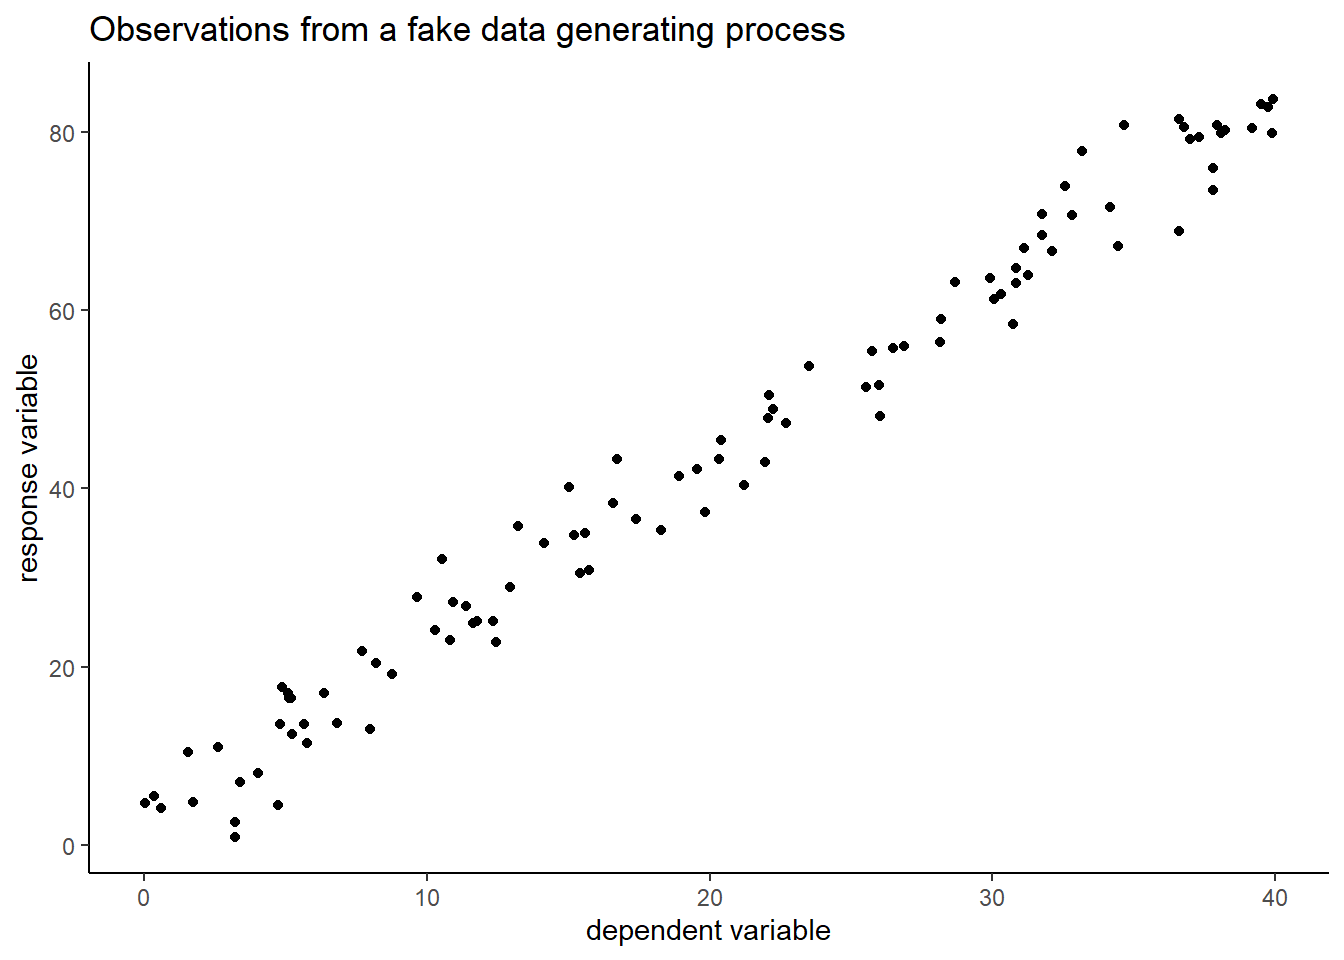
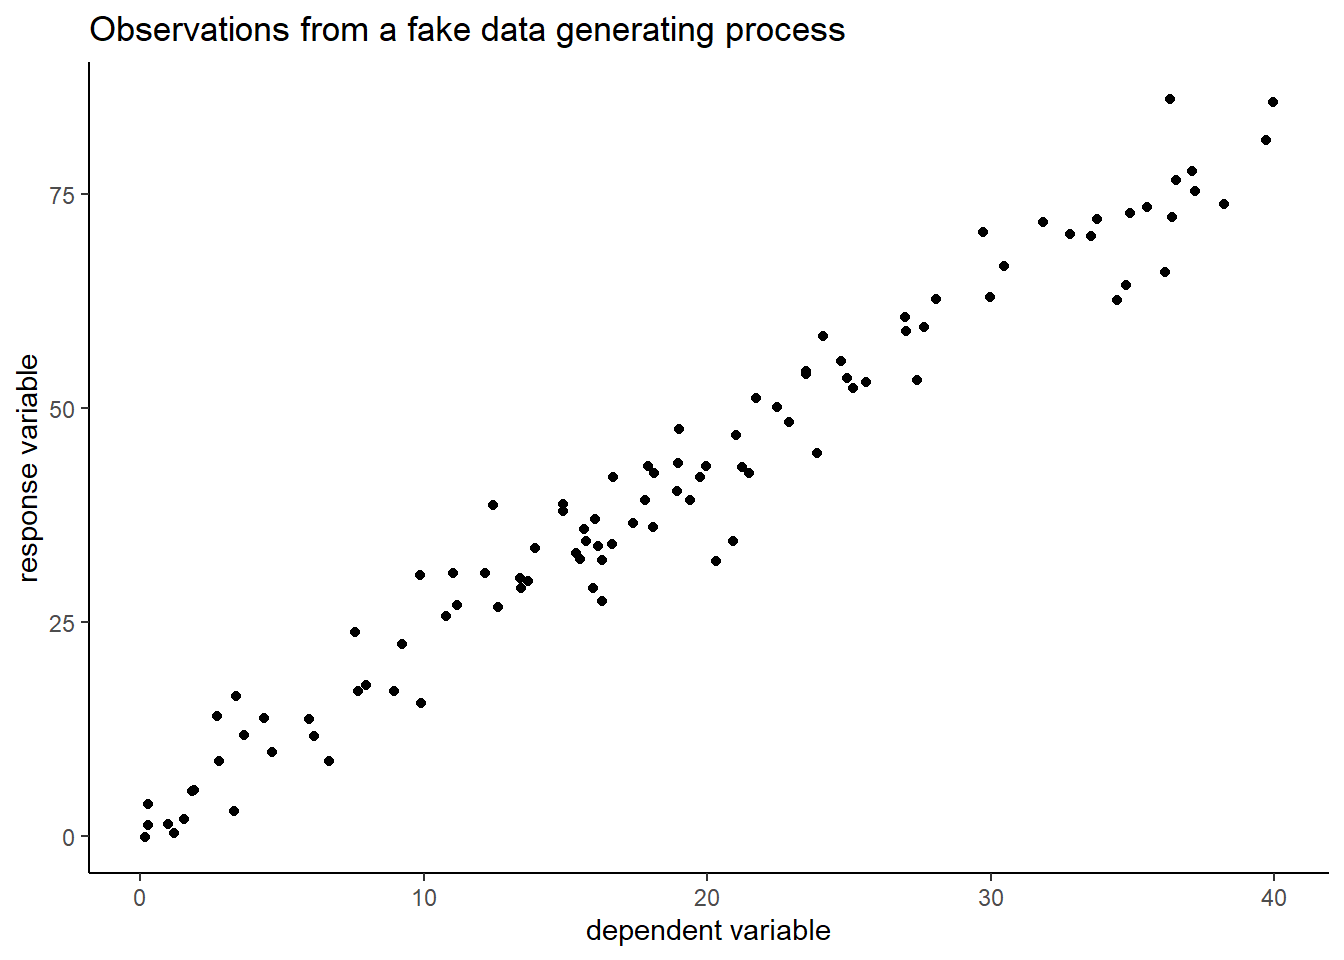
Fundamentals 1 correction def of likelihood and indep var

diff --git a/content/post/2021-04-11-nuts-and-bolts-1-ml-and-ols/index.en.html b/content/post/2021-04-11-nuts-and-bolts-1-ml-and-ols/index.en.html
@@ -23,8 +23,8 @@ projects: []
 <div id="theories-of-inference" class="section level2">
 <h2>Theories of Inference</h2>
 <p>The fundamental puzzle of inference is to say something about an unknown process that generates data, when all you have in your hand are a few of its crumbs. Of course, if you truly understood every aspect of a process, you wouldn’t need to do inference. But especially in the social sciences, this is never the case. So the problem of inference is to put probabilities on outcomes of a process that you do not understand. Although second best, it still gives some grip on reality.</p>
-<p>It is hard to make progress with this puzzle unless we make an assumption. To make our life easier, we assume that data are generated on the basis of a parametric probability distribution. Think of the Normal, Bernoulli or Poisson distributions. The benefit of these things is that you don’t have to estimate the probability for every possible value of the data. One or two parameters describe the entire probability distribution! Think of the mean and variance for the Gaussian, lambda for the Poisson and p for the Bernoulli. When you are willing to make this assumption, you are doing parametric statistics.</p>
-<p>Instead of figuring out probabilities for the values of the process directly then, we estimate one or more parameters that we will call ‘theta’ (<span class="math inline">\(\theta\)</span>) (theta can be a vector) that control a distribution that indirectly gives us the probabilities for values of the process. SO the problem is now transformed from estimating maybe thousands of values into estimating only one or more parameters, based on data and your assumption about a model (say, a linear model with a Gaussian distribution).</p>
+<p>It is hard to make progress with this puzzle unless we make some assumptions. You can do without these assumptions, but that is a topic for another time. To make our life easier, we first assume that the data were independently drawn from a population. Second, we assume that data are generated on the basis of a parametric probability distribution. Think of the Normal, Bernoulli or Poisson distributions. The benefit of these things is that you don’t have to estimate the probability for every possible value of the data. One or two parameters describe the entire probability distribution! Think of the mean and variance for the Gaussian, lambda for the Poisson and p for the Bernoulli. When you are willing to make this assumption, you are doing parametric statistics.</p>
+<p>Instead of figuring out probabilities for the values of the process directly then, we estimate one or more parameters that we will call ‘theta’ (<span class="math inline">\(\theta\)</span>) (theta can be a vector) that control a distribution that indirectly gives us the probabilities for values of the process. So the problem is now transformed from estimating maybe thousands of values into estimating only one or more parameters, based on data and your assumption about a model (say, a linear model with a Gaussian distribution).</p>
 <p>We stress the last point here. In inference, the claims about our estimate and its uncertainty are conditional also on the model we picked. Often, we could have chosen a different model just as well. This so called ‘model dependence’ has become a more prominent topic of study in recent years. See for example <a href="https://journals.sagepub.com/doi/10.1177/1745691616658637">this article</a> for a case study.</p>
 <p>Carrying on, we can now translate the problem of inference into a formula with the help of Bayes’ Rule. Instead of probabilities for events, which typically figure in Bayes’ Rule, we now place probability distributions in the formula. These can be either discrete or continuous. We will not bother with this distinction here.</p>
 <p><span class="math display">\[p(\theta|data)=\frac{p(\theta)p(data|\theta)}{p(data)}\]</span>
@@ -49,17 +49,17 @@ Although the math is easier in likelihood, the concept is less intuitive than th
 <h2>Maximum Likelihood</h2>
 <p>We begin with a maximum likelihood calculation for a simple linear model. There are two components to this model. First, there is the systematic part, which predicts the value of the average <span class="math inline">\(\mu\)</span> for some covariate. Second, we assume that there is noise around this estimate due to fundamental uncertainty in nature. This is the stochastic part of the model. Here we assume that the noise is normally distributed.</p>
 <p>We now run through the calculation of the ML, plugging in <span class="math inline">\(\beta\)</span> at the very end in order to get used to the idea of reparameterization. This <span class="math inline">\(\beta\)</span> could be a vector of covariates that predict the value we are interested in. Here however, to keep things simple, it is just a scalar that holds the value of <span class="math inline">\(\mu\)</span>.</p>
-<p>Finding the maximum likelihood means maximizing the probability (or density) of values of the parameters given the data. We do this for each data point and multiply the values together (we can do this because we assume independence; we can still do likelihood inference without this assumption, but in that case things get a whole lot more complicated).</p>
+<p>Finding the maximum likelihood means maximizing the probability (or density) of the data, given a parameter. In other words, we run through candidate parameters, and pick the ones that make the data the most likely. So for some candidate mean and standard deviation we set up a normal distribution and calculate the probability (technically the density) of this data point. We do this for all data points and multiply the densities together (we can do this because we assume independence; we can still do likelihood inference without this assumption, but in that case things get a whole lot more complicated).</p>
 <p><span class="math display">\[\mathcal{L} (\mu_i,\sigma_{i}|y) = \prod_{i=1}^n f(y_{i}|\mu_i,\sigma_{i}) \]</span>
-We are looking then for the <span class="math inline">\(\mu\)</span> and <span class="math inline">\(\sigma\)</span> that make the data the most likely.</p>
-<p>Next, we take the log of both sides, because it allows us to write the product as a sum. This makes it easier to differentiate later.</p>
+The outcome of this calculation is some crazy number that is very small and doesn’t have any intuitive meaning. It virtue is that it helps us find the <span class="math inline">\(\mu\)</span> and <span class="math inline">\(\sigma\)</span> that make the data the most likely.</p>
+<p>Next, we take the log of both sides, because it allows us to write the product as a sum. This makes it easier to differentiate later. Also, the crazy small number becomes a negative number that is large in absolute value and easier on the eye.</p>
 <p><span class="math display">\[ln(\mathcal{L}(\mu_i,\sigma_{i}|y))=\sum_{i=1}^{n}ln(f(y_{i}|\mu_i,\sigma_{i})) \]</span>
 Filling in the formula for the normal distribution reveals what model we were assuming all along.</p>
 <p><span class="math display">\[ln(\mathcal{L} (\mu_i,\sigma_{i}|y))=\sum_{i=1}^{n}ln(\frac{1}{\sqrt{2\pi}\sigma}e^{-\frac{(y_{i}-\mu_{i})^2}{2\sigma^2}}) \]</span>
-Taking the natural log of e simplifies things considerably. Since we want to get at the maximum likelihood estimate for the mean, we drop terms that do not depend on <span class="math inline">\(\mu\)</span>.</p>
-<p><span class="math display">\[ln(\mathcal{L}(\mu_i,\sigma_{i}|y))\approx \sum_{i=1}^{n}{-\frac{(y_{i}-\mu_{i})^2}{2\sigma^2}}\]</span>
+Taking the natural log of e will simplify things considerably. Since we want to get at the maximum likelihood estimate for the mean, we also drop terms that do not depend on <span class="math inline">\(\mu\)</span>.</p>
+<p><span class="math display">\[ln(\mathcal{L}(\mu_i|y,\sigma_{i}))\approx \sum_{i=1}^{n}{-\frac{(y_{i}-\mu_{i})^2}{2\sigma^2}}\]</span>
 Substituting the scalar <span class="math inline">\(\beta\)</span> for <span class="math inline">\(\mu\)</span> (another name for the same thing now, later we will put more stuff in <span class="math inline">\(\beta\)</span>) and taking the partial derivative of this expression with respect to <span class="math inline">\(\beta\)</span> shows that the mean is the best estimate for <span class="math inline">\(\beta\)</span>.</p>
-<p>This is utterly unsurprising. If we assume data are normally distributed, then the mean of the data is the best candidate for the <span class="math inline">\(\mu\)</span> in the normal probability distribution formula. In other words, the normal distribution with the sample mean at its center on average assigns the highest probabilities to the data. We are not concerned with showing the power of likelihood estimation here however. We will do that later.</p>
+<p>This is utterly unsurprising. If we assume that data are normally distributed, then the mean of the data is the best candidate for the <span class="math inline">\(\mu\)</span> in the normal probability distribution formula. In other words, the normal distribution with the sample mean at its center on average assigns the highest probabilities to such sample data.</p>
 <p>Although the ML estimate was unimpressive, it does have nice properties which are helpful in more interesting cases. In particular, if there is an unbiased estimator for a problem, then ML will provide it, while also being efficient. Efficiency is a technical term that means that the variance around the unbiased estimator is minimal. And even if there is no unbiased estimator, ML will come up with a good one.</p>
 <p>Let us now demonstrate how we can actually calculate the ML for an example in which we fill <span class="math inline">\(\beta\)</span> with coefficients of a linear model. That is, the average will depend on some predictor on the x-axis now. The normally distributed noise term is spread out in the up-down direction and moves from left to right centered at the y-value of the line.</p>
 </div>
@@ -111,8 +111,8 @@ return(-logl)
 p&lt;-optim(c(5,2,4),lf,method=&quot;BFGS&quot;,hessian=T,y=data_y,X=X)
 # print out the paramter estimates
 p$par</code></pre>
-<pre><code>## [1]  2.825519  2.010162 13.187238</code></pre>
-<p>Let’s check how well ML has done. It estimates 2.83 for the intercept (true value 3) and 2.01 for the slope (true value 2). The real variance was 16 and is estimated to be 13.2.</p>
+<pre><code>## [1]  2.707113  2.012361 19.242197</code></pre>
+<p>Let’s check how well ML has done. It estimates 2.71 for the intercept (true value 3) and 2.01 for the slope (true value 2). The real variance was 16 and is estimated to be 19.2.</p>
 <p>We had only 65 data points, so we should give our model some slack. How much slack? That can also be computed from the likelihood formula in the form of standard errors. What follows is a bit of a technical story, but it hopefully gives some intuition for where standard errors come from.</p>
 <p>We start by taking second partial derivatives of the log-likelihood function with respect to the paramaters. We can arrange these values in a matrix. We do this in such a way that we get a so called Hessian matrix.
 <span class="math display">\[\mathbf{H}(\theta)=\frac{\partial^{2}}{\partial\theta_{i}\partial\theta_{j}}ln(\mathcal{L}(\theta))\]</span>
@@ -132,7 +132,7 @@ OI&lt;-solve(p$hessian)
 # standard errors are squared values on diagonal
 se &lt;- sqrt(diag(OI))
 se</code></pre>
-<pre><code>## [1] 0.69969742 0.02957561 1.86496260</code></pre>
+<pre><code>## [1] 0.86309658 0.04010731 2.72126621</code></pre>
 <pre class="r"><code># Compare with OLS using lm
 dat_fake &lt;- as.data.frame(cbind(X,data_y))
 summary(lm(data=dat_fake, data_y ~ 1 + data_x))</code></pre>
@@ -141,20 +141,20 @@ summary(lm(data=dat_fake, data_y ~ 1 + data_x))</code></pre>
 ## lm(formula = data_y ~ 1 + data_x, data = dat_fake)
 ## 
 ## Residuals:
-##     Min      1Q  Median      3Q     Max 
-## -8.3200 -2.4905  0.1656  1.9911  8.2984 
+##      Min       1Q   Median       3Q      Max 
+## -11.4087  -2.2888  -0.1138   2.6271  10.8298 
 ## 
 ## Coefficients:
 ##             Estimate Std. Error t value Pr(&gt;|t|)    
-## (Intercept)  2.82551    0.70680   3.998 0.000124 ***
-## data_x       2.01016    0.02988  67.284  &lt; 2e-16 ***
+## (Intercept)  2.70702    0.87186   3.105  0.00249 ** 
+## data_x       2.01237    0.04051  49.670  &lt; 2e-16 ***
 ## ---
 ## Signif. codes:  0 &#39;***&#39; 0.001 &#39;**&#39; 0.01 &#39;*&#39; 0.05 &#39;.&#39; 0.1 &#39; &#39; 1
 ## 
-## Residual standard error: 3.668 on 98 degrees of freedom
-## Multiple R-squared:  0.9788, Adjusted R-squared:  0.9786 
-## F-statistic:  4527 on 1 and 98 DF,  p-value: &lt; 2.2e-16</code></pre>
-<p>We note that the estimates of the standard error by <code>optim</code> and <code>lm</code> are practically the same. The standard error of 0.7 around the intercept means that we are not surprised we were off by -0.174.</p>
+## Residual standard error: 4.431 on 98 degrees of freedom
+## Multiple R-squared:  0.9618, Adjusted R-squared:  0.9614 
+## F-statistic:  2467 on 1 and 98 DF,  p-value: &lt; 2.2e-16</code></pre>
+<p>We note that the estimates of the standard error by <code>optim</code> and <code>lm</code> are practically the same. The standard error of 0.863 around the intercept means that we are not surprised we were off by -0.293.</p>
 </div>
 <div id="simulating-from-a-likelihood-model" class="section level2">
 <h2>Simulating From a Likelihood Model</h2>
@@ -231,9 +231,9 @@ ggplot(expectedsim, aes(x=expectedsim[,1])) +
 <p>As expected, the uncertainty has been reduced, but based on these data, we are not even that confident saying what the average math anxiety will be for this group of teachers. The estimation uncertainty alone prevents this.</p>
 <div id="taking-stock" class="section level3">
 <h3>Taking Stock</h3>
-<p>In this post we went through some of the basics of maximum likelihood in the case of linear relations and Gaussian errors. The theory only shines though when we loosen both restrictions. That will be the topic of a future post in this series on Generalized Linear Models. We can already note pros and cons though to finish off the present discussion.</p>
-<p>A downside is that the numbers that the likelihood function generates have no meaning for us. We therefore did not report them. That is, the surface that reflects the likelihood for all the possible parameter values is only meaningful when we compare the heights for parameter values within that space to each other (or with the same parameters for a different model based on the same data). In fact, we ignored the constant term that shifts the height up and down for precisely this reason. It does not matter if everything is shifted up or down. Only the relative heights matter.</p>
+<p>In this post we went through some of the basics of maximum likelihood in the case of linear relations and Gaussian errors. The theory only shines though when we loosen both restrictions. That will be the topic of a future post in this series on Generalized Linear Models. We can already note pros and cons though to wrap up the present discussion.</p>
+<p>A downside of ML is that the numbers that the likelihood function generates have no meaning for us. We therefore did not report them. That is, the surface that reflects the likelihood for all the possible parameter values is only meaningful when we compare the heights for parameter values within that space to each other (or with the same parameters for a different model based on the same data). In fact, we ignored the constant term that shifts the height up and down for precisely this reason. It does not matter if everything is shifted up or down. Only the relative heights matter.</p>
 <p>Moreover, the likelihood is conditional on the data that were used in the analysis. It therefore makes no sense to compare likelihoods for parameter values that were estimated on the basis of different data. In sum, likelihoods are meaningless if they are reported for only one model and they are meaningless when comparing models based on different data sets.</p>
-<p>A nice feature of likelihood theory is that it can flexibly generate point estimates for the parameters we happen to be interested in. As we shown, simulating the most likely points from the model - with fundamental and stochastic uncertainty - does add a layer to the analysis, but actually makes the results easier to interpret.</p>
+<p>A nice feature of likelihood theory is that it can flexibly generate point estimates for the parameters we happen to be interested in. As we’ve shown, simulating the most likely points from the model - with fundamental and stochastic uncertainty - does add a layer to the analysis. We have to do more work. But the results are densities, which are easier to interpret for both lay people and practitioners.</p>
 </div>
 </div>
